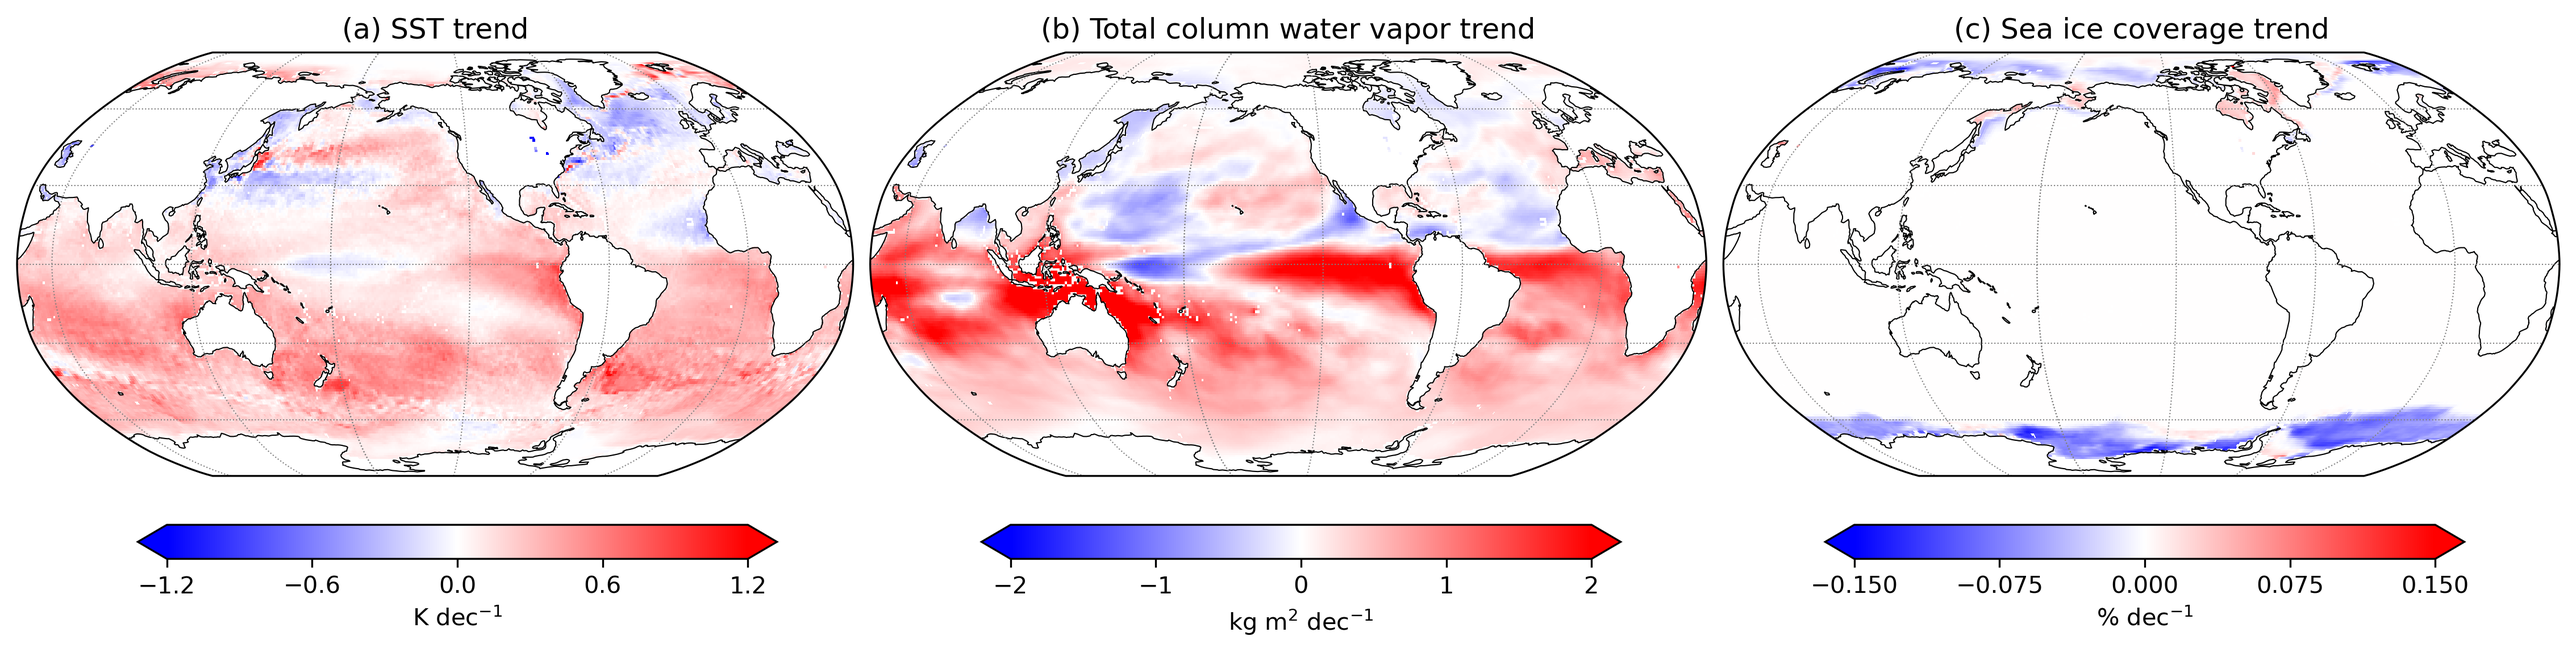
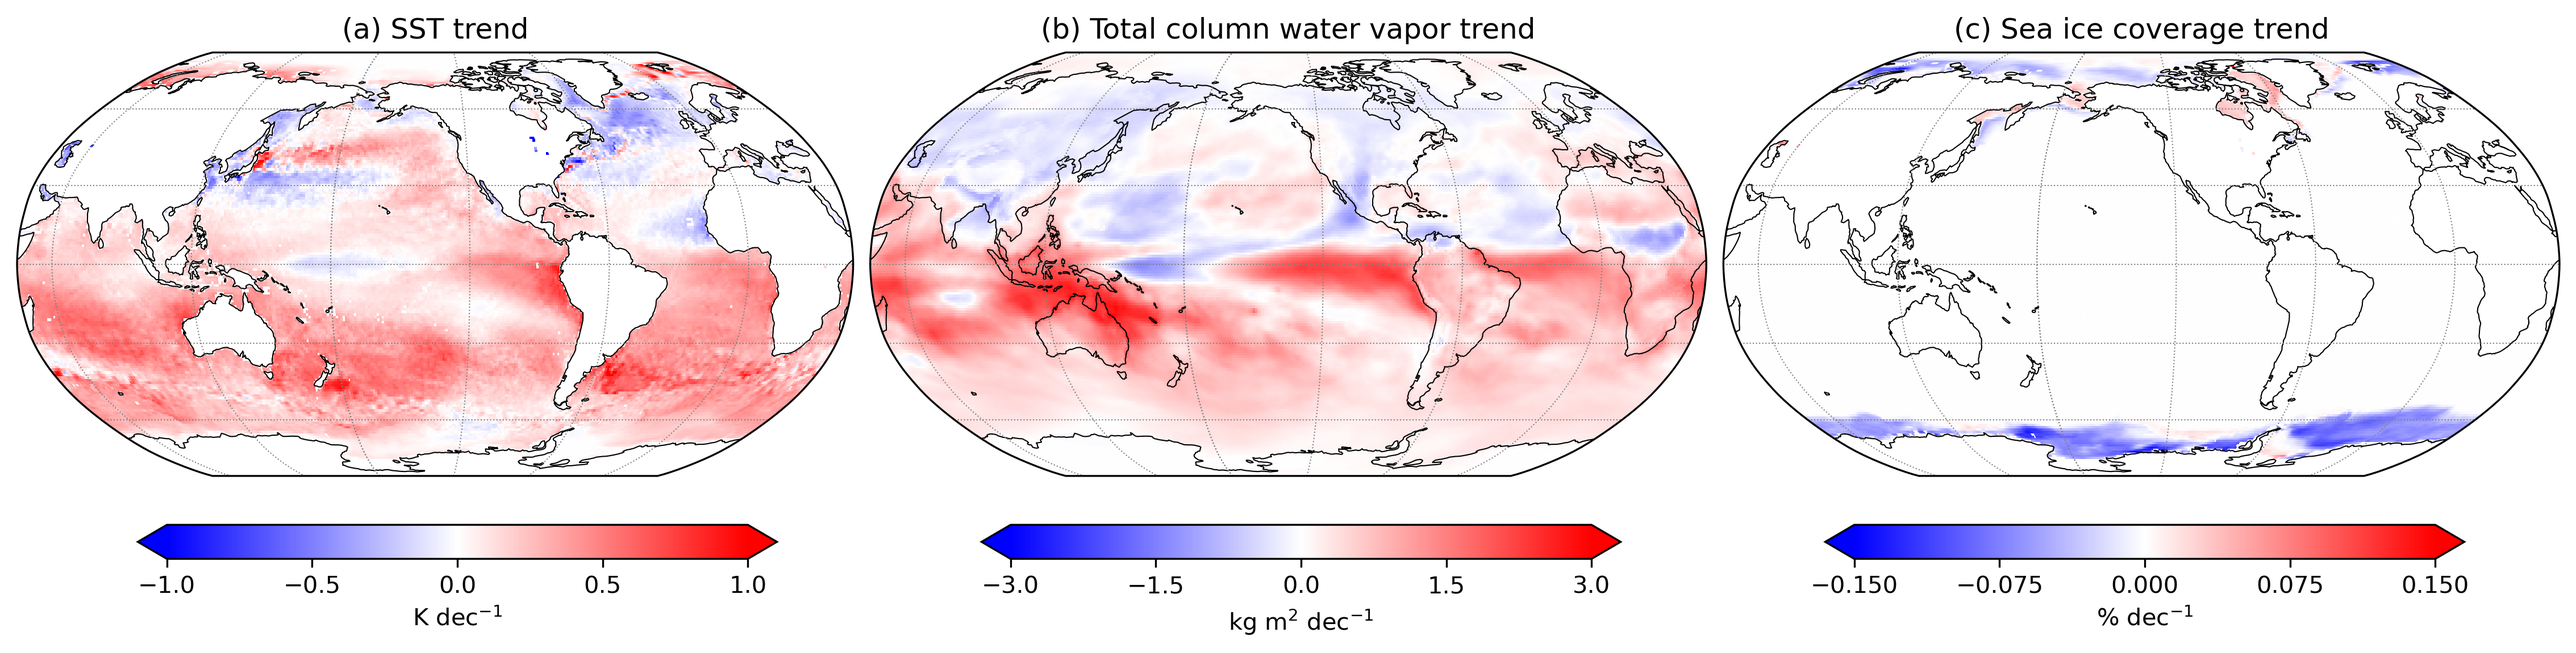
wv over land and chng cbar rngs

diff --git a/make_figs/figure_4_drivers.py b/make_figs/figure_4_drivers.py
@@ -22,12 +22,12 @@ ax_a = fig.add_subplot(2, 3, 1, projection=proj)
 ax_b = fig.add_subplot(2, 3, 2, projection=proj)
 ax_c = fig.add_subplot(2, 3, 3, projection=proj)
 
-sst_lim = 1.2
-wv_lim = 2.0
+sst_lim = 1.
+wv_lim = 3.
 sic_lim = 0.15
 
 sst_plt = plot_colormesh(ax_a, drivers_trends.sel(season='ANN').sst, lim=sst_lim, mask_and_val=(land_sea_mask, 0))
-wv_plt = plot_colormesh(ax_b, drivers_trends.sel(season='ANN').tcw, lim=wv_lim, mask_and_val=(land_sea_mask, 0))
+wv_plt = plot_colormesh(ax_b, drivers_trends.sel(season='ANN').tcw, lim=wv_lim)
 sic_plt = plot_colormesh(ax_c, drivers_trends.sel(season='ANN').siconc, lim=sic_lim, mask_and_val=(land_sea_mask, 0))
 
 plot_coasts_grid(ax_a)
